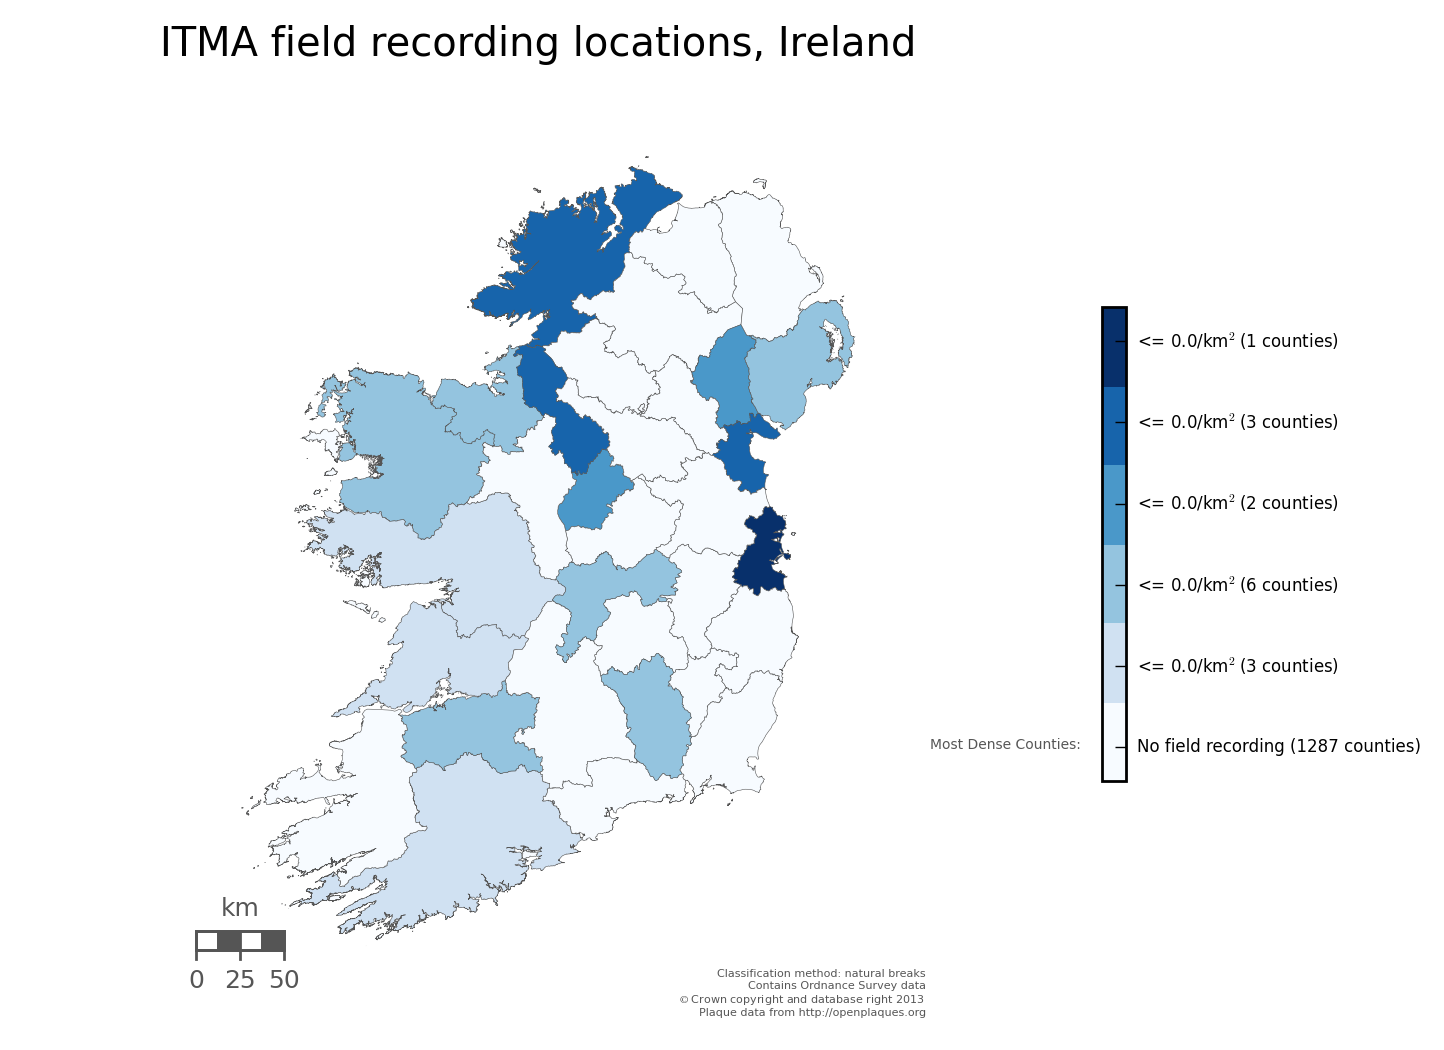
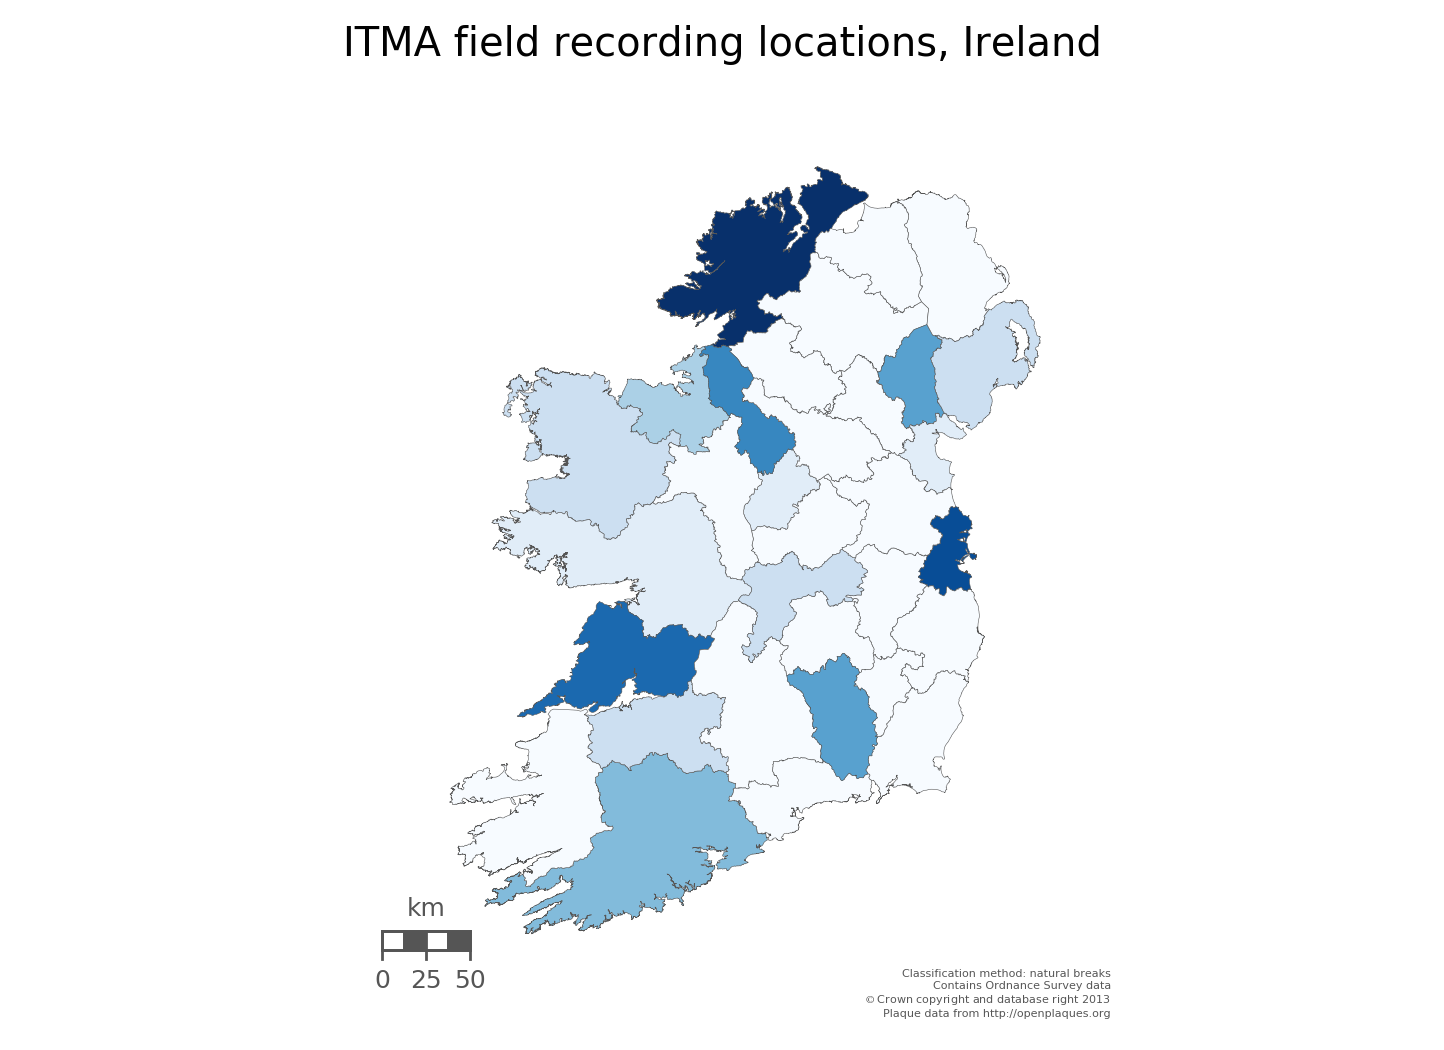
pruned shapefile and added hours to df_map

diff --git a/main.py b/main.py
@@ -1,5 +1,5 @@
 # http://beneathdata.com/how-to/visualizing-my-location-history/
-import redis,json,csv,datetime
+import redis,json,csv,datetime,re
 import matplotlib.pyplot as plt
 import matplotlib.cm as cm
 import numpy as np
@@ -92,25 +92,28 @@ data_store = dict()
 data_store['lon'] = []
 data_store['lat'] = []
 data_store['hours'] = []
+data_store['county'] = []
 
 with open(stats_file,'rb') as csvfile:
-	data = csv.reader(csvfile)
-	for i,row in enumerate(data):
-		if len(row[0]) and i !=0:
-			date = row[0]
-			event = row[1]
-			location = json.loads(r.get(row[2]))
-			event_type = row[3].split(',')
-			hours = float(row[4])
-			data_store['lon'].append(location['lon'])
-			data_store['lat'].append(location['lat'])
-			data_store['hours'].append(hours)
-			# data_store['event_type'].append(event_type)
+    data = csv.reader(csvfile)
+    for i,row in enumerate(data):
+        if len(row[0]) and i !=0:
+            date = row[0]
+            event = row[1]
+            location = json.loads(r.get(row[2]))
+            event_type = row[3].split(',')
+            hours = float(row[4])
+            data_store['lon'].append(float(location['lon']))
+            data_store['lat'].append(float(location['lat']))
+            data_store['hours'].append(hours)
+            county = re.match(ur'.*County\s(\w+).*',location['address'])
+            if county != None:
+                county = county.group(1).strip()
+            data_store['county'].append(county )
 
 df = pd.DataFrame(data_store)
 df = df.dropna()
 
-df[['lon', 'lat','hours']] = df[['lon', 'lat','hours']].astype(float)
 
 df.reset_index(drop=True, inplace=True)
 
@@ -131,53 +134,48 @@ m = Basemap(
     resolution='i',  suppress_ticks=True)
 
 # m.drawcoastlines()
-m.readshapefile('data/counties/test','counties', color='none', zorder=2)
+m.readshapefile('data/counties/test','counties', drawbounds=False,color='none', zorder=2)
 
-print len(m.counties)
-for i in m.counties_info:
-	print i
-	break
-quit()
+plotted = []
+clean_counties = []
+clean_counties_info = []
+
+for info, shape in zip(m.counties_info, m.counties):
+    if info['NAME_TAG'] not in plotted:
+        clean_counties.append(shape)
+        clean_counties_info.append(info)
+        # x, y = zip(*shape) 
+        # m.plot(x, y, marker=None,color='#86A3A0')
+        plotted.append(info['NAME_TAG'])
 
 # # set up a map dataframe
 df_map = pd.DataFrame({
     #access the x,y coords and define a polygon for each item in m.countes
-    'poly': [Polygon(xy) for xy in m.counties],
+    'poly': [Polygon(xy) for xy in clean_counties],
     #convert NAME_1 to a column called 'district'
-    'county': [county['NAME_EN'] for county in m.counties_info]})
+    'county': [county['NAME_EN'] for county in clean_counties_info],
+    'hours': [sum(df.loc[lambda df: (df.county == county['NAME_TAG'])]['hours']) for county in clean_counties_info]
+})
 
 # Create Point objects in map coordinates from dataframe lon and lat values
 map_points = pd.Series([Point(m(mapped_x, mapped_y)) for mapped_x, mapped_y in zip(df['lon'], df['lat'])])
 rec_points = MultiPoint(list(map_points.values))
 counties_polygon = prep(MultiPolygon(list(df_map['poly'].values)))
-# calculate points that fall within the London boundary
 county_points = filter(counties_polygon.contains, rec_points)
 
-df_map['area_m'] = df_map['poly'].map(lambda x: x.area)
-df_map['area_km'] = df_map['area_m'] / 100000
-df_map['count'] = df_map['poly'].map(lambda x: int(len(filter(prep(x).contains, county_points))))
-df_map['density_m'] = df_map['count'] / df_map['area_m']
-df_map['density_km'] = df_map['count'] / df_map['area_km']
-# it's easier to work with NaN values when classifying
-df_map.replace(to_replace={'density_m': {0: np.nan}, 'density_km': {0: np.nan}}, inplace=True)
-
 # Calculate Jenks natural breaks for density
-breaks = nb(df_map[df_map['density_km'].notnull()].density_km.values,initial=50,k=5)
+breaks = nb(df_map[df_map['hours'].notnull()].hours.values,initial=300,k=32)
+
+print df
+print breaks
 
 # the notnull method lets us match indices when joining
-jb = pd.DataFrame({'jenks_bins': breaks.yb}, index=df_map[df_map['density_km'].notnull()].index)
+jb = pd.DataFrame({'jenks_bins': breaks.yb}, index=df_map[df_map['hours'].notnull()].index)
 df_map = df_map.join(jb)
 df_map.jenks_bins.fillna(-1, inplace=True)
 
-jenks_labels = ["<= %0.1f/km$^2$(%s counties)" % (b, c) for b, c in zip(breaks.bins, breaks.counts)]
-jenks_labels.insert(0, 'No field recording (%s counties)' % len(df_map[df_map['density_km'].isnull()]))
-
-# draw ward patches from polygons
-df_map['patches'] = df_map['poly'].map(lambda x: PolygonPatch(
-    x,
-    fc='#555555',
-    ec='#787878', lw=.25, alpha=.9,
-    zorder=4))
+# jenks_labels = ["<= %0.1f/km$^2$(%s counties)" % (b, c) for b, c in zip(breaks.bins, breaks.counts)]
+# jenks_labels.insert(0, 'No field recording (%s counties)' % len(df_map[df_map['density_km'].isnull()]))
 
 plt.clf()
 fig = plt.figure()
@@ -194,19 +192,19 @@ pc.set_facecolor(cmap(norm(df_map['jenks_bins'].values)))
 ax.add_collection(pc)
 
 # Add a colour bar
-cb = colorbar_index(ncolors=len(jenks_labels), cmap=cmap, shrink=0.5, labels=jenks_labels)
-cb.ax.tick_params(labelsize=6)
+# cb = colorbar_index(ncolors=len(jenks_labels), cmap=cmap, shrink=0.5, labels=jenks_labels)
+# cb.ax.tick_params(labelsize=6)
 
-# Show highest densities, in descending order
-highest = '\n'.join(value[1] for _, value in df_map[(df_map['jenks_bins'] == 5)][:10].sort().iterrows())
-highest = 'Most Dense Counties:\n\n' + highest
-# Subtraction is necessary for precise y coordinate alignment
-details = cb.ax.text(
-    -1., 0 - 0.007,
-    highest,
-    ha='right', va='bottom',
-    size=5,
-    color='#555555')
+# # Show highest densities, in descending order
+# highest = '\n'.join(value[1] for _, value in df_map[(df_map['jenks_bins'] == 10)][:10].sort().iterrows())
+# highest = 'Most Dense Counties:\n\n' + highest
+# # Subtraction is necessary for precise y coordinate alignment
+# details = cb.ax.text(
+#     -1., 0 - 0.007,
+#     highest,
+#     ha='right', va='bottom',
+#     size=5,
+#     color='#555555')
 
 # Bin method, copyright and source data info
 smallprint = ax.text(
